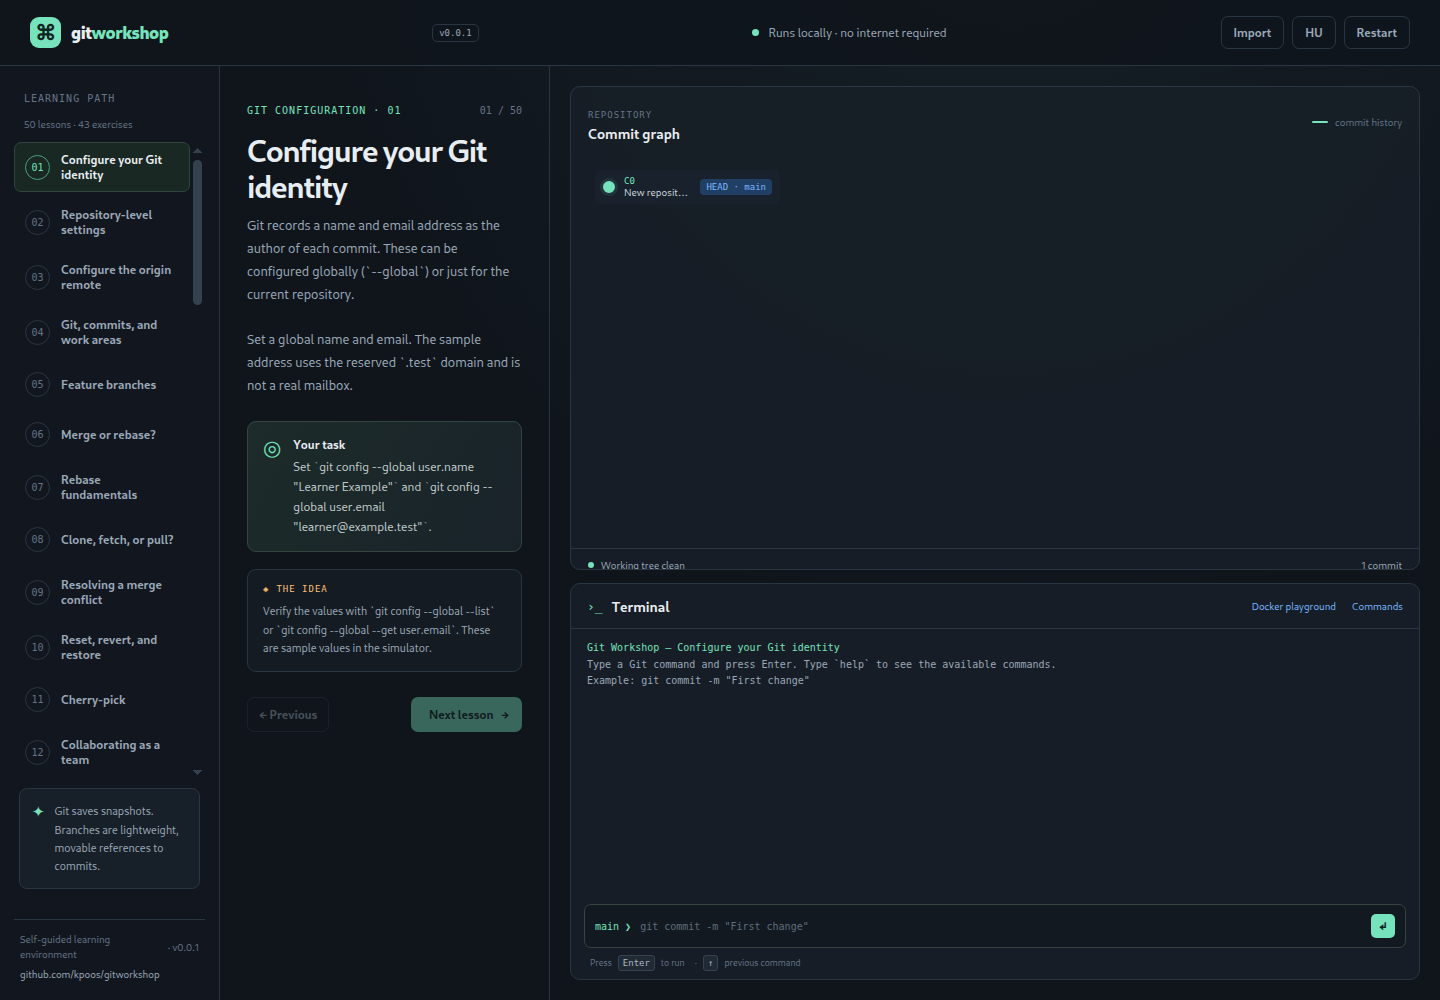
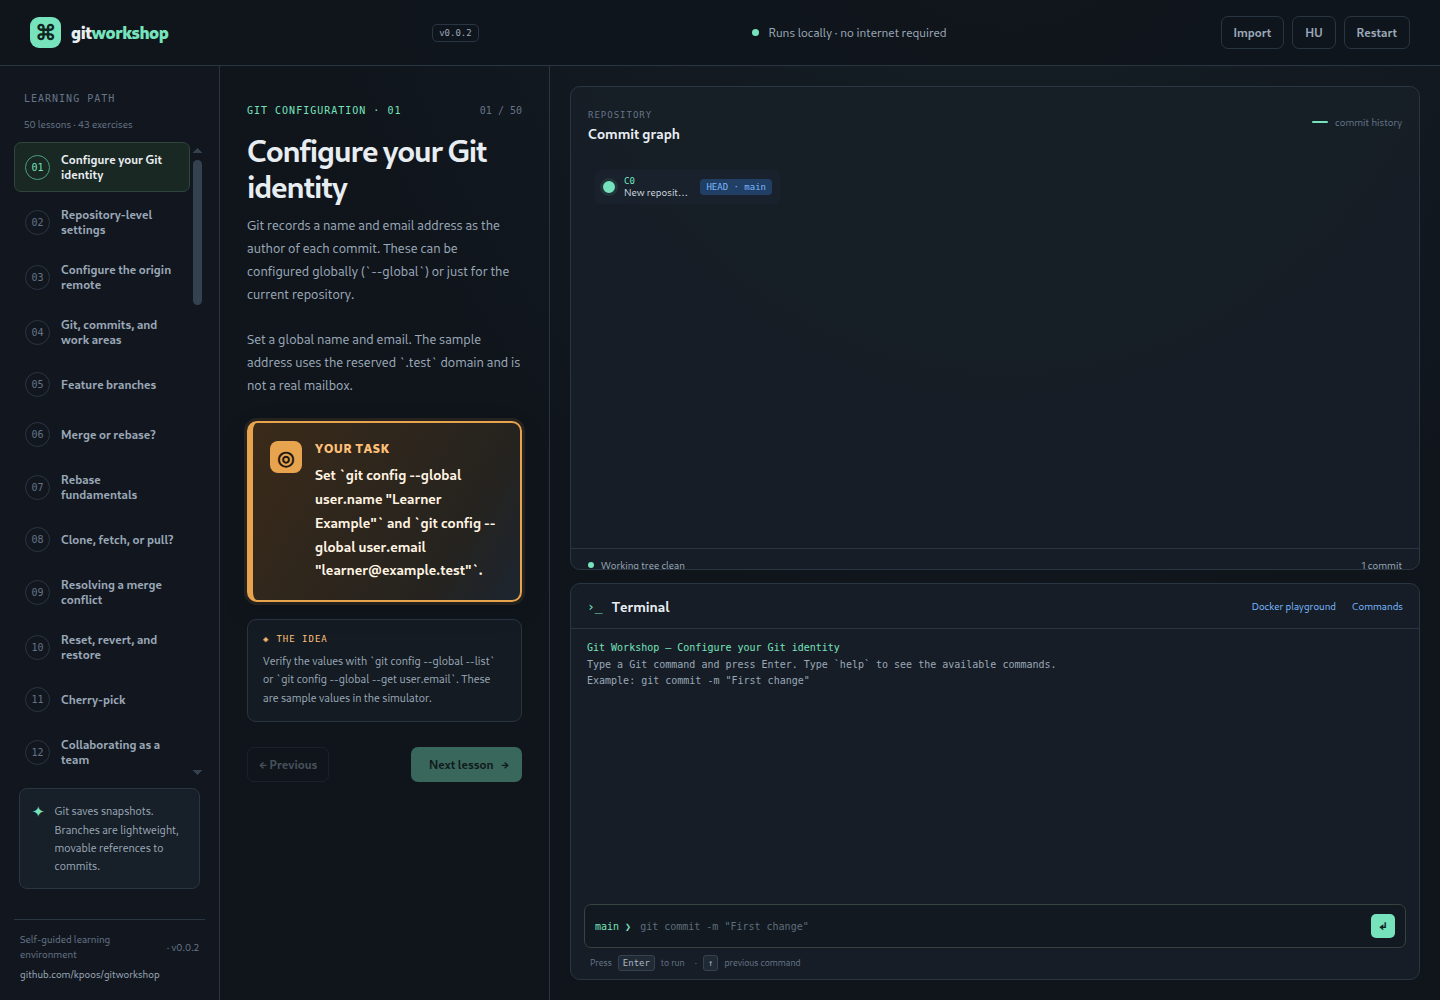
add amber highlight to tasks

Changed region(s): [[0.1562, 0.403, 0.375, 0.806]]

diff --git a/style.css b/style.css
@@ -156,10 +156,22 @@ button { color: inherit; }
 .lesson-counter { color: var(--subtle); font-family: var(--mono); font-size: 10px; }
 h1 { margin: 17px 0 10px; font-size: clamp(24px, 2.2vw, 31px); letter-spacing: -1.2px; line-height: 1.15; }
 .lesson-description { margin: 0; color: var(--muted); font-size: 13px; line-height: 1.75; white-space: pre-line; }
-.goal-card { display: flex; gap: 12px; margin-top: 25px; padding: 15px; border: 1px solid #35443f; border-radius: 9px; background: linear-gradient(120deg, #1d2b29, #19232a); }
-.goal-icon { color: var(--accent); font-size: 21px; line-height: 1; }
-.goal-card strong { display: block; margin: 0 0 5px; font-size: 12px; }
-.goal-card p { margin: 0; color: #c0cbc9; font-size: 12px; line-height: 1.65; }
+.goal-card {
+  position: relative;
+  display: flex;
+  align-items: flex-start;
+  gap: 13px;
+  margin-top: 25px;
+  padding: 18px 17px;
+  border: 2px solid #e8a34f;
+  border-left-width: 6px;
+  border-radius: 10px;
+  background: linear-gradient(120deg, #3a2a19, #25231f 74%, #1c2530);
+  box-shadow: 0 0 0 3px rgb(232 163 79 / 10%), 0 8px 24px rgb(0 0 0 / 18%);
+}
+.goal-icon { display: grid; flex: 0 0 32px; width: 32px; height: 32px; place-items: center; border-radius: 8px; background: #e8a34f; color: #20170d; font-size: 20px; font-weight: 800; line-height: 1; }
+.goal-card strong { display: block; margin: 0 0 7px; color: #ffc078; font-size: 12px; font-weight: 800; letter-spacing: .8px; text-transform: uppercase; }
+.goal-card p { margin: 0; color: #fff3e2; font-size: 14px; font-weight: 650; line-height: 1.7; overflow-wrap: anywhere; }
 .concept-card { margin-top: 17px; padding: 14px 15px; border: 1px solid var(--border); border-radius: 9px; background: rgb(23 30 39 / 65%); }
 .concept-heading { display: flex; align-items: center; gap: 7px; color: var(--orange); font-size: 9px; }
 .concept-card p { margin: 8px 0 0; color: var(--muted); font-size: 11px; line-height: 1.65; }

diff --git a/index.html b/index.html
@@ -50,10 +50,10 @@
         </div>
         <h1 id="lesson-title"></h1>
         <p class="lesson-description" id="lesson-description"></p>
-        <div class="goal-card">
+        <section class="goal-card" aria-labelledby="goal-label">
           <div class="goal-icon" aria-hidden="true">◎</div>
           <div><strong id="goal-label">Feladat</strong><p id="lesson-goal"></p></div>
-        </div>
+        </section>
         <div class="concept-card">
           <div class="concept-heading"><span aria-hidden="true">◈</span> <span id="concept-label">GONDOLJ ERRE</span></div>
           <p id="lesson-hint"></p>
